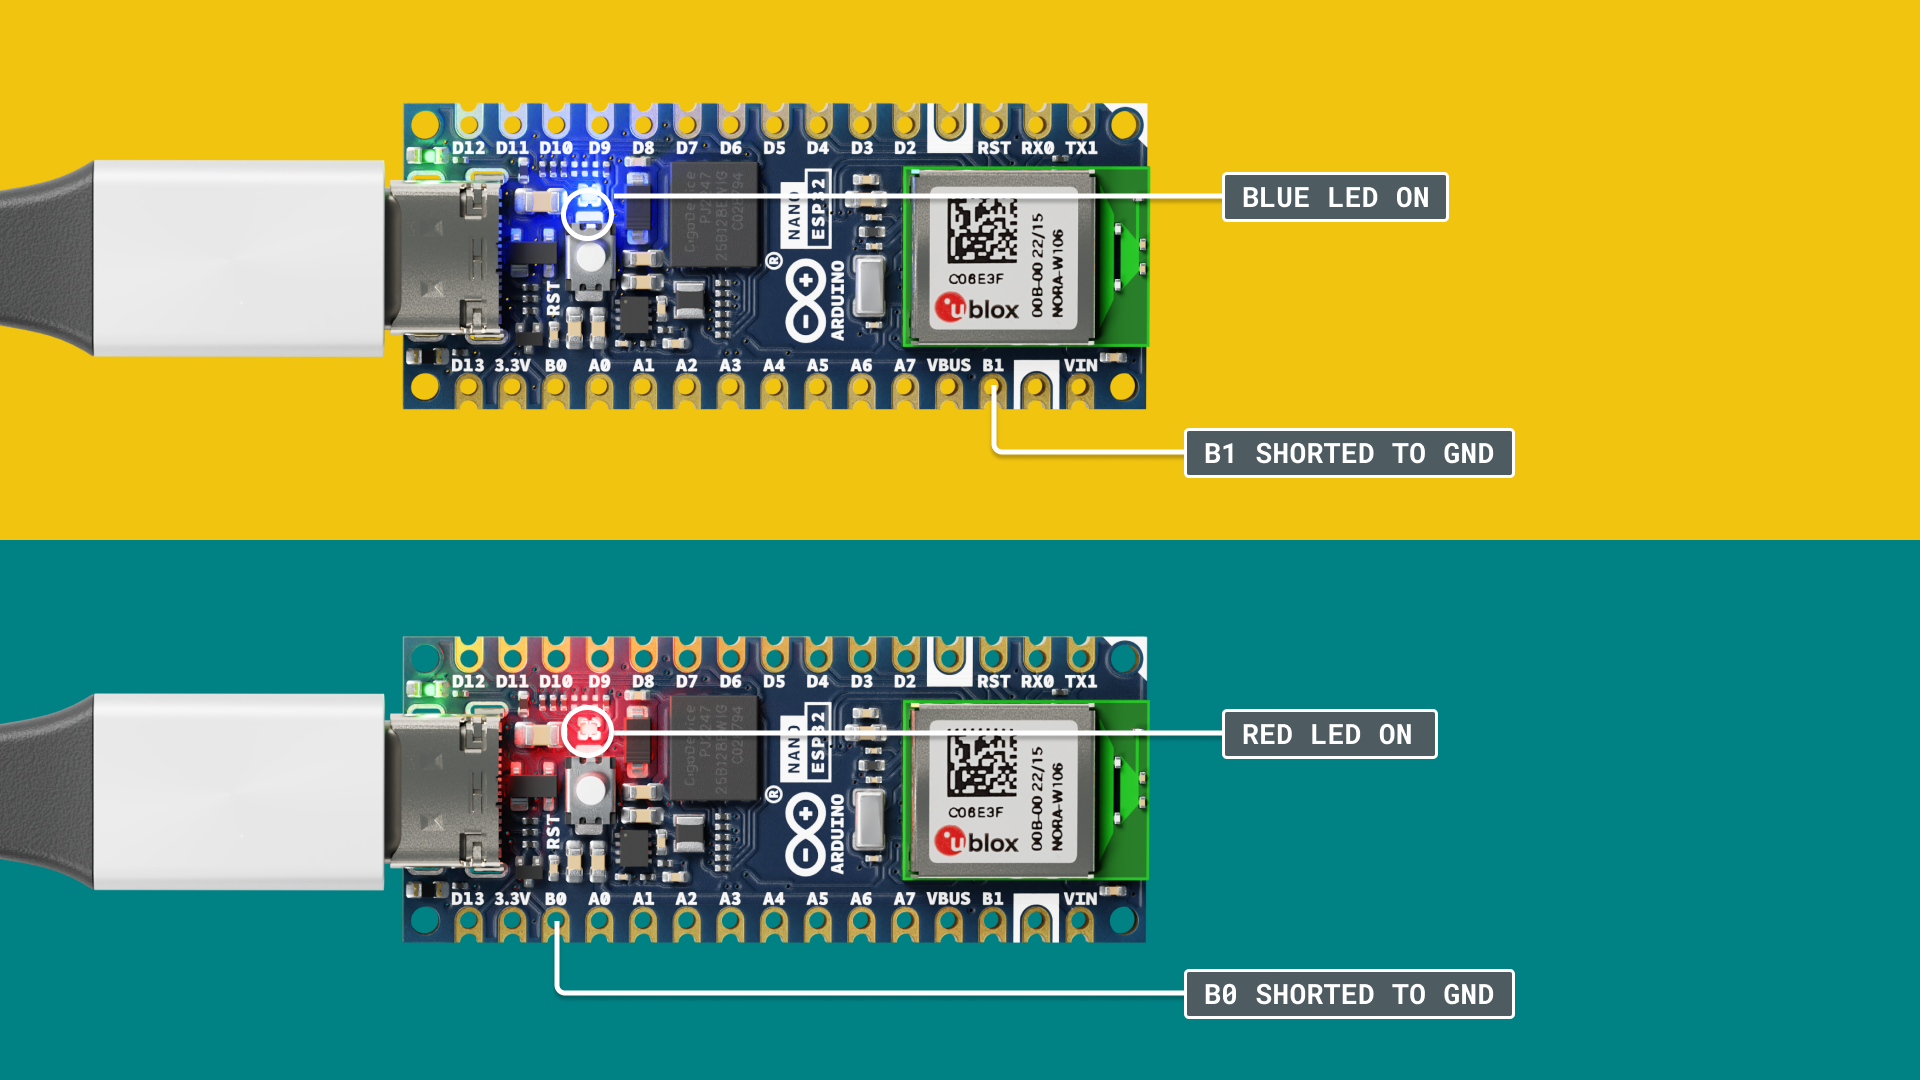
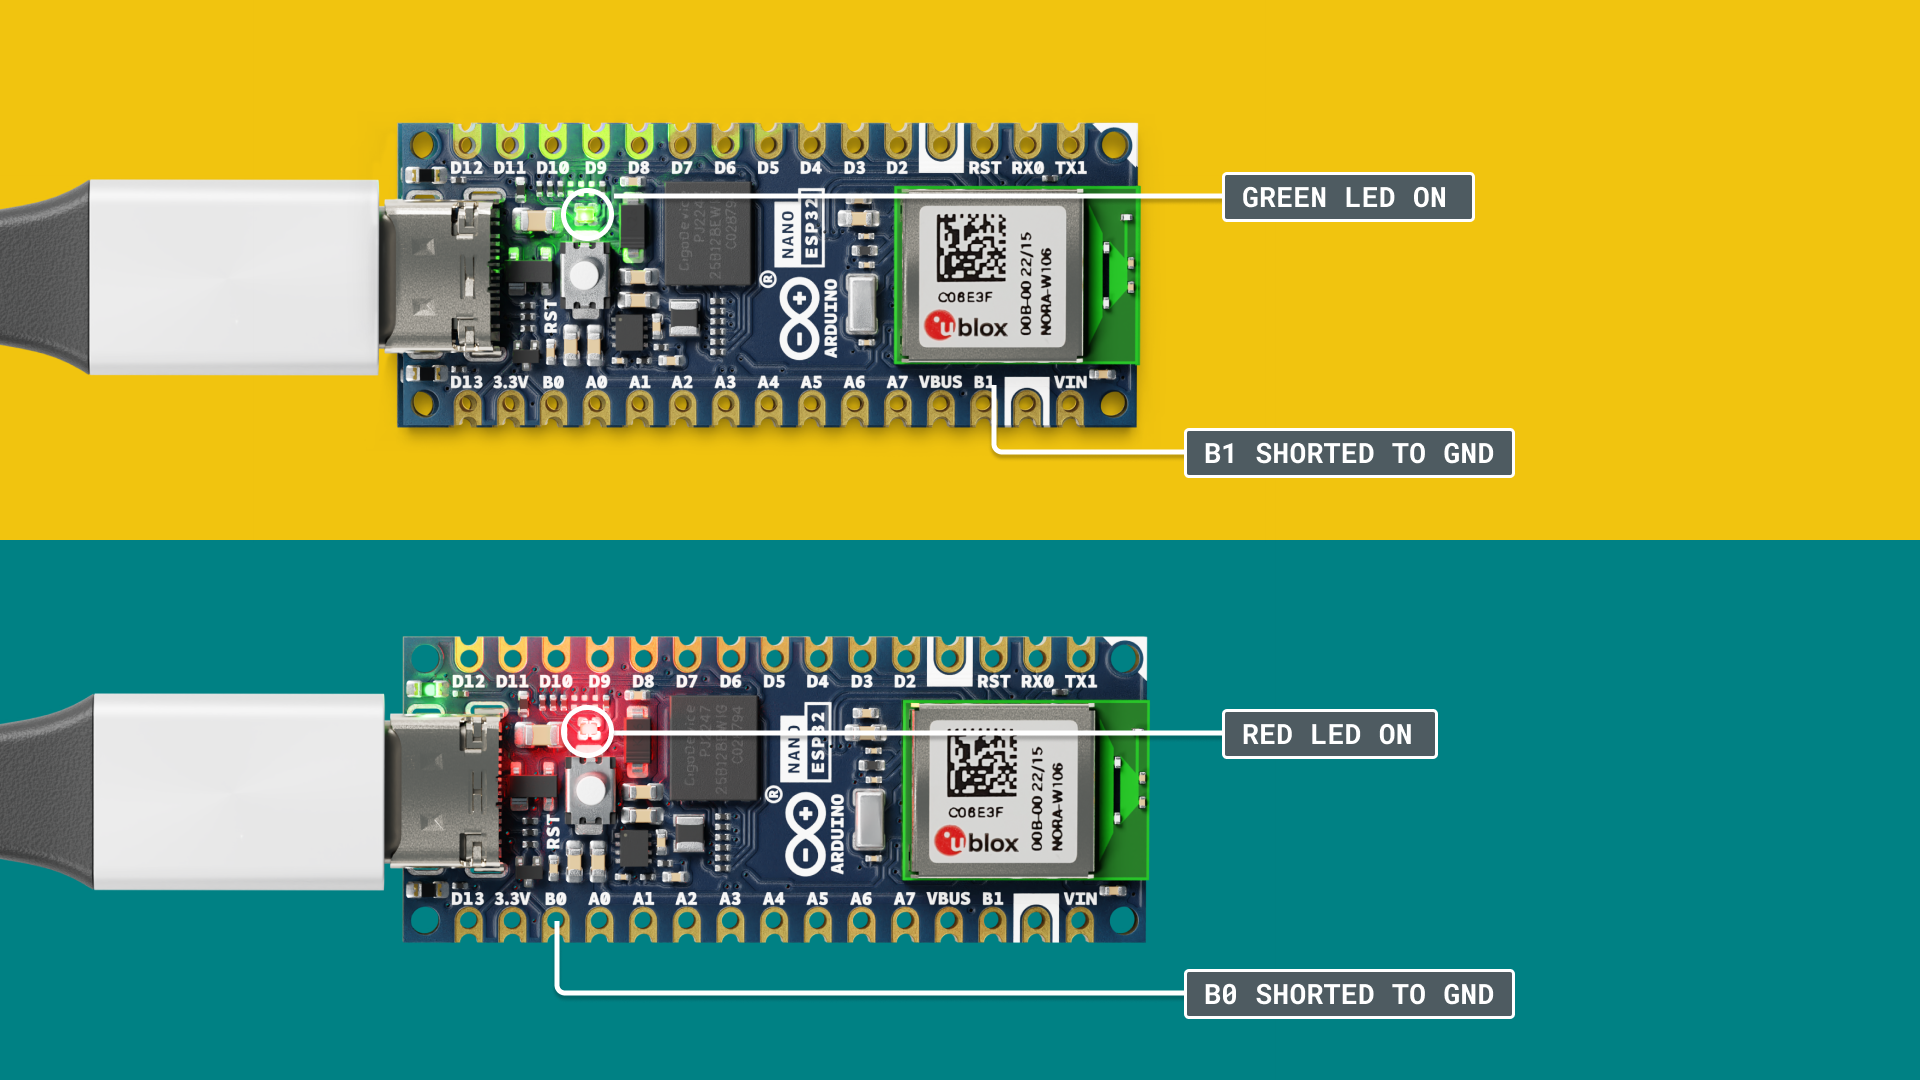
Updated Boot pin section

Changed region(s): [[0.0, 0.0917, 0.625, 0.4278], [0.6562, 0.1528, 0.7812, 0.2139]]

diff --git a/content/hardware/03.nano/boards/nano-esp32/tutorials/cheat-sheet/cheat-sheet.md b/content/hardware/03.nano/boards/nano-esp32/tutorials/cheat-sheet/cheat-sheet.md
@@ -204,7 +204,9 @@ To enter bootloader mode (chip boot mode), you can use either the BOOT0 (B0) or 
 
 ![Boot pins.](assets/nano-esp32-boot.png)
 
-Shorting these to GND + pressing the reset button will enter a bootloader mode. Note that while shorting these pins, a corresponding Blue LED will light up.
+Shorting these to GND + pressing the reset button will enter a bootloader mode. Note that while shorting these pins, a corresponding Green LED will light up.
+
+***Some boards from the first limited production batch were assembled with a different RGB LED which has the green and blue pins inverted. Read our full Help Center article [here](https://support.arduino.cc/hc/en-us/articles/9589073738012)***
 
 You can read more about different this in the [Strapping Pins section](https://www.espressif.com/sites/default/files/documentation/esp32-s3_datasheet_en.pdf#page=23) in the ESP32-S3's datasheet.
 
